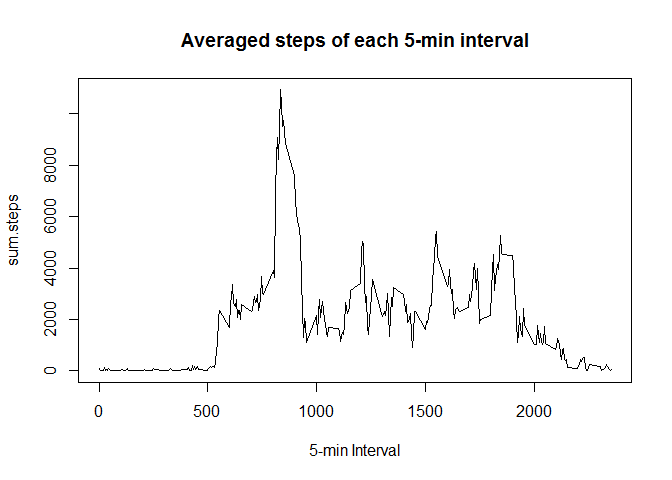
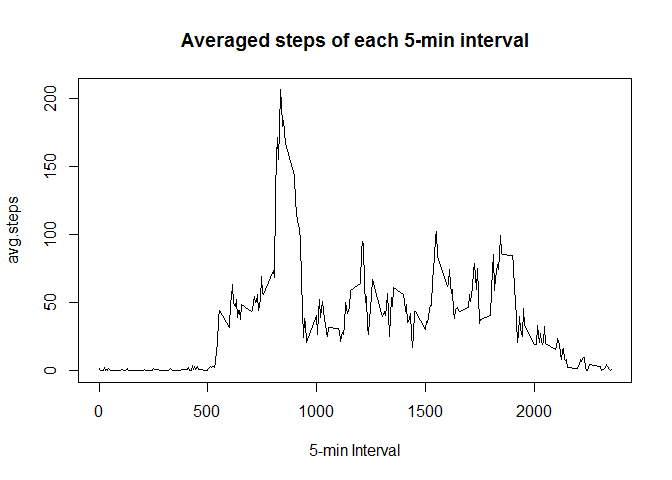
more typos

diff --git a/PA1_template.html b/PA1_template.html
@@ -184,21 +184,21 @@ hist(nsteps.day$sum.steps, xlab = &quot;steps taken per day&quot;,
 <li>Make a time series plot of the 5-minute interval (x-axis) and the average number of steps taken, averaged across all days (y-axis)</li>
 </ol>
 <pre class="r"><code>nsteps.interval &lt;- Data %&gt;% group_by(interval) %&gt;% 
-    summarise(sum.steps = sum(steps, na.rm = TRUE))
+    summarise(avg.steps = mean(steps, na.rm = TRUE))
     
-with(nsteps.interval, plot(interval,sum.steps, type = &quot;l&quot;,
+with(nsteps.interval, plot(interval,avg.steps, type = &quot;l&quot;,
                           xlab = &quot;5-min Interval&quot;, 
                           main = &quot;Averaged steps of each 5-min interval&quot;))</code></pre>
[2 lines of base64/hex data omitted]
 <ol start="2" style="list-style-type: decimal">
 <li>Which 5-minute interval, on average across all the days in the dataset, contains the maximum number of steps?</li>
 </ol>
-<pre class="r"><code>nsteps.interval %&gt;% filter(sum.steps == max(sum.steps))</code></pre>
+<pre class="r"><code>nsteps.interval %&gt;% filter(avg.steps == max(avg.steps))</code></pre>
 <pre><code>## Source: local data frame [1 x 2]
 ## 
-##   interval sum.steps
-##      (int)     (int)
-## 1      835     10927</code></pre>
+##   interval avg.steps
+##      (int)     (dbl)
+## 1      835  206.1698</code></pre>
 </div>
 <div id="imputing-missing-values" class="section level2">
 <h2>Imputing missing values</h2>
@@ -294,14 +294,13 @@ Data.NoNA      </code></pre>
 <li>Make a panel plot containing a time series plot (i.e. <code>type = &quot;l&quot;</code>) of the 5-minute interval (x-axis) and the average number of steps taken, averaged across all weekday days or weekend days (y-axis).</li>
 </ol>
 <pre class="r"><code>nsteps.weekday.NoNA &lt;- Data.NoNA %&gt;% group_by(interval,Weekday) %&gt;% 
-    summarise(sum.steps = sum(steps))
+    summarise(avg.steps = mean(steps))
 
 with(nsteps.weekday.NoNA, 
-     xyplot(sum.steps ~ interval | Weekday , type = &quot;l&quot;,
+     xyplot(avg.steps ~ interval | Weekday , type = &quot;l&quot;,
             layout = c(1, 2), xlab = &quot;5-min Interval&quot;, 
             main = &quot;Averaged steps of each 5-min interval&quot;))</code></pre>
[1 lines of base64/hex data omitted]
-<p><strong>Weekends present fewer steps in average, probably since the owners were resting</strong></p>
[1 lines of base64/hex data omitted]
 </div>
 
 

diff --git a/PA1_template.md b/PA1_template.md
@@ -87,9 +87,9 @@ nsteps.day  %>% summarise(median = median(sum.steps, na.rm = TRUE))
 
 ```r
 nsteps.interval <- Data %>% group_by(interval) %>% 
-    summarise(sum.steps = sum(steps, na.rm = TRUE))
+    summarise(avg.steps = mean(steps, na.rm = TRUE))
     
-with(nsteps.interval, plot(interval,sum.steps, type = "l",
+with(nsteps.interval, plot(interval,avg.steps, type = "l",
                           xlab = "5-min Interval", 
                           main = "Averaged steps of each 5-min interval"))
 ```
@@ -101,15 +101,15 @@ with(nsteps.interval, plot(interval,sum.steps, type = "l",
 
 
 ```r
-nsteps.interval %>% filter(sum.steps == max(sum.steps))
+nsteps.interval %>% filter(avg.steps == max(avg.steps))
 ```
 
 ```
 ## Source: local data frame [1 x 2]
 ## 
-##   interval sum.steps
-##      (int)     (int)
-## 1      835     10927
+##   interval avg.steps
+##      (int)     (dbl)
+## 1      835  206.1698
 ```
 
 ## Imputing missing values
@@ -241,14 +241,12 @@ Data.NoNA
 
 ```r
 nsteps.weekday.NoNA <- Data.NoNA %>% group_by(interval,Weekday) %>% 
-    summarise(sum.steps = sum(steps))
+    summarise(avg.steps = mean(steps))
 
 with(nsteps.weekday.NoNA, 
-     xyplot(sum.steps ~ interval | Weekday , type = "l",
+     xyplot(avg.steps ~ interval | Weekday , type = "l",
             layout = c(1, 2), xlab = "5-min Interval", 
             main = "Averaged steps of each 5-min interval"))
 ```
 
 ![](PA1_template_files/figure-html/weekday plot-1.png)<!-- -->
-
-**Weekends present fewer steps in average, probably since the owners were resting**
